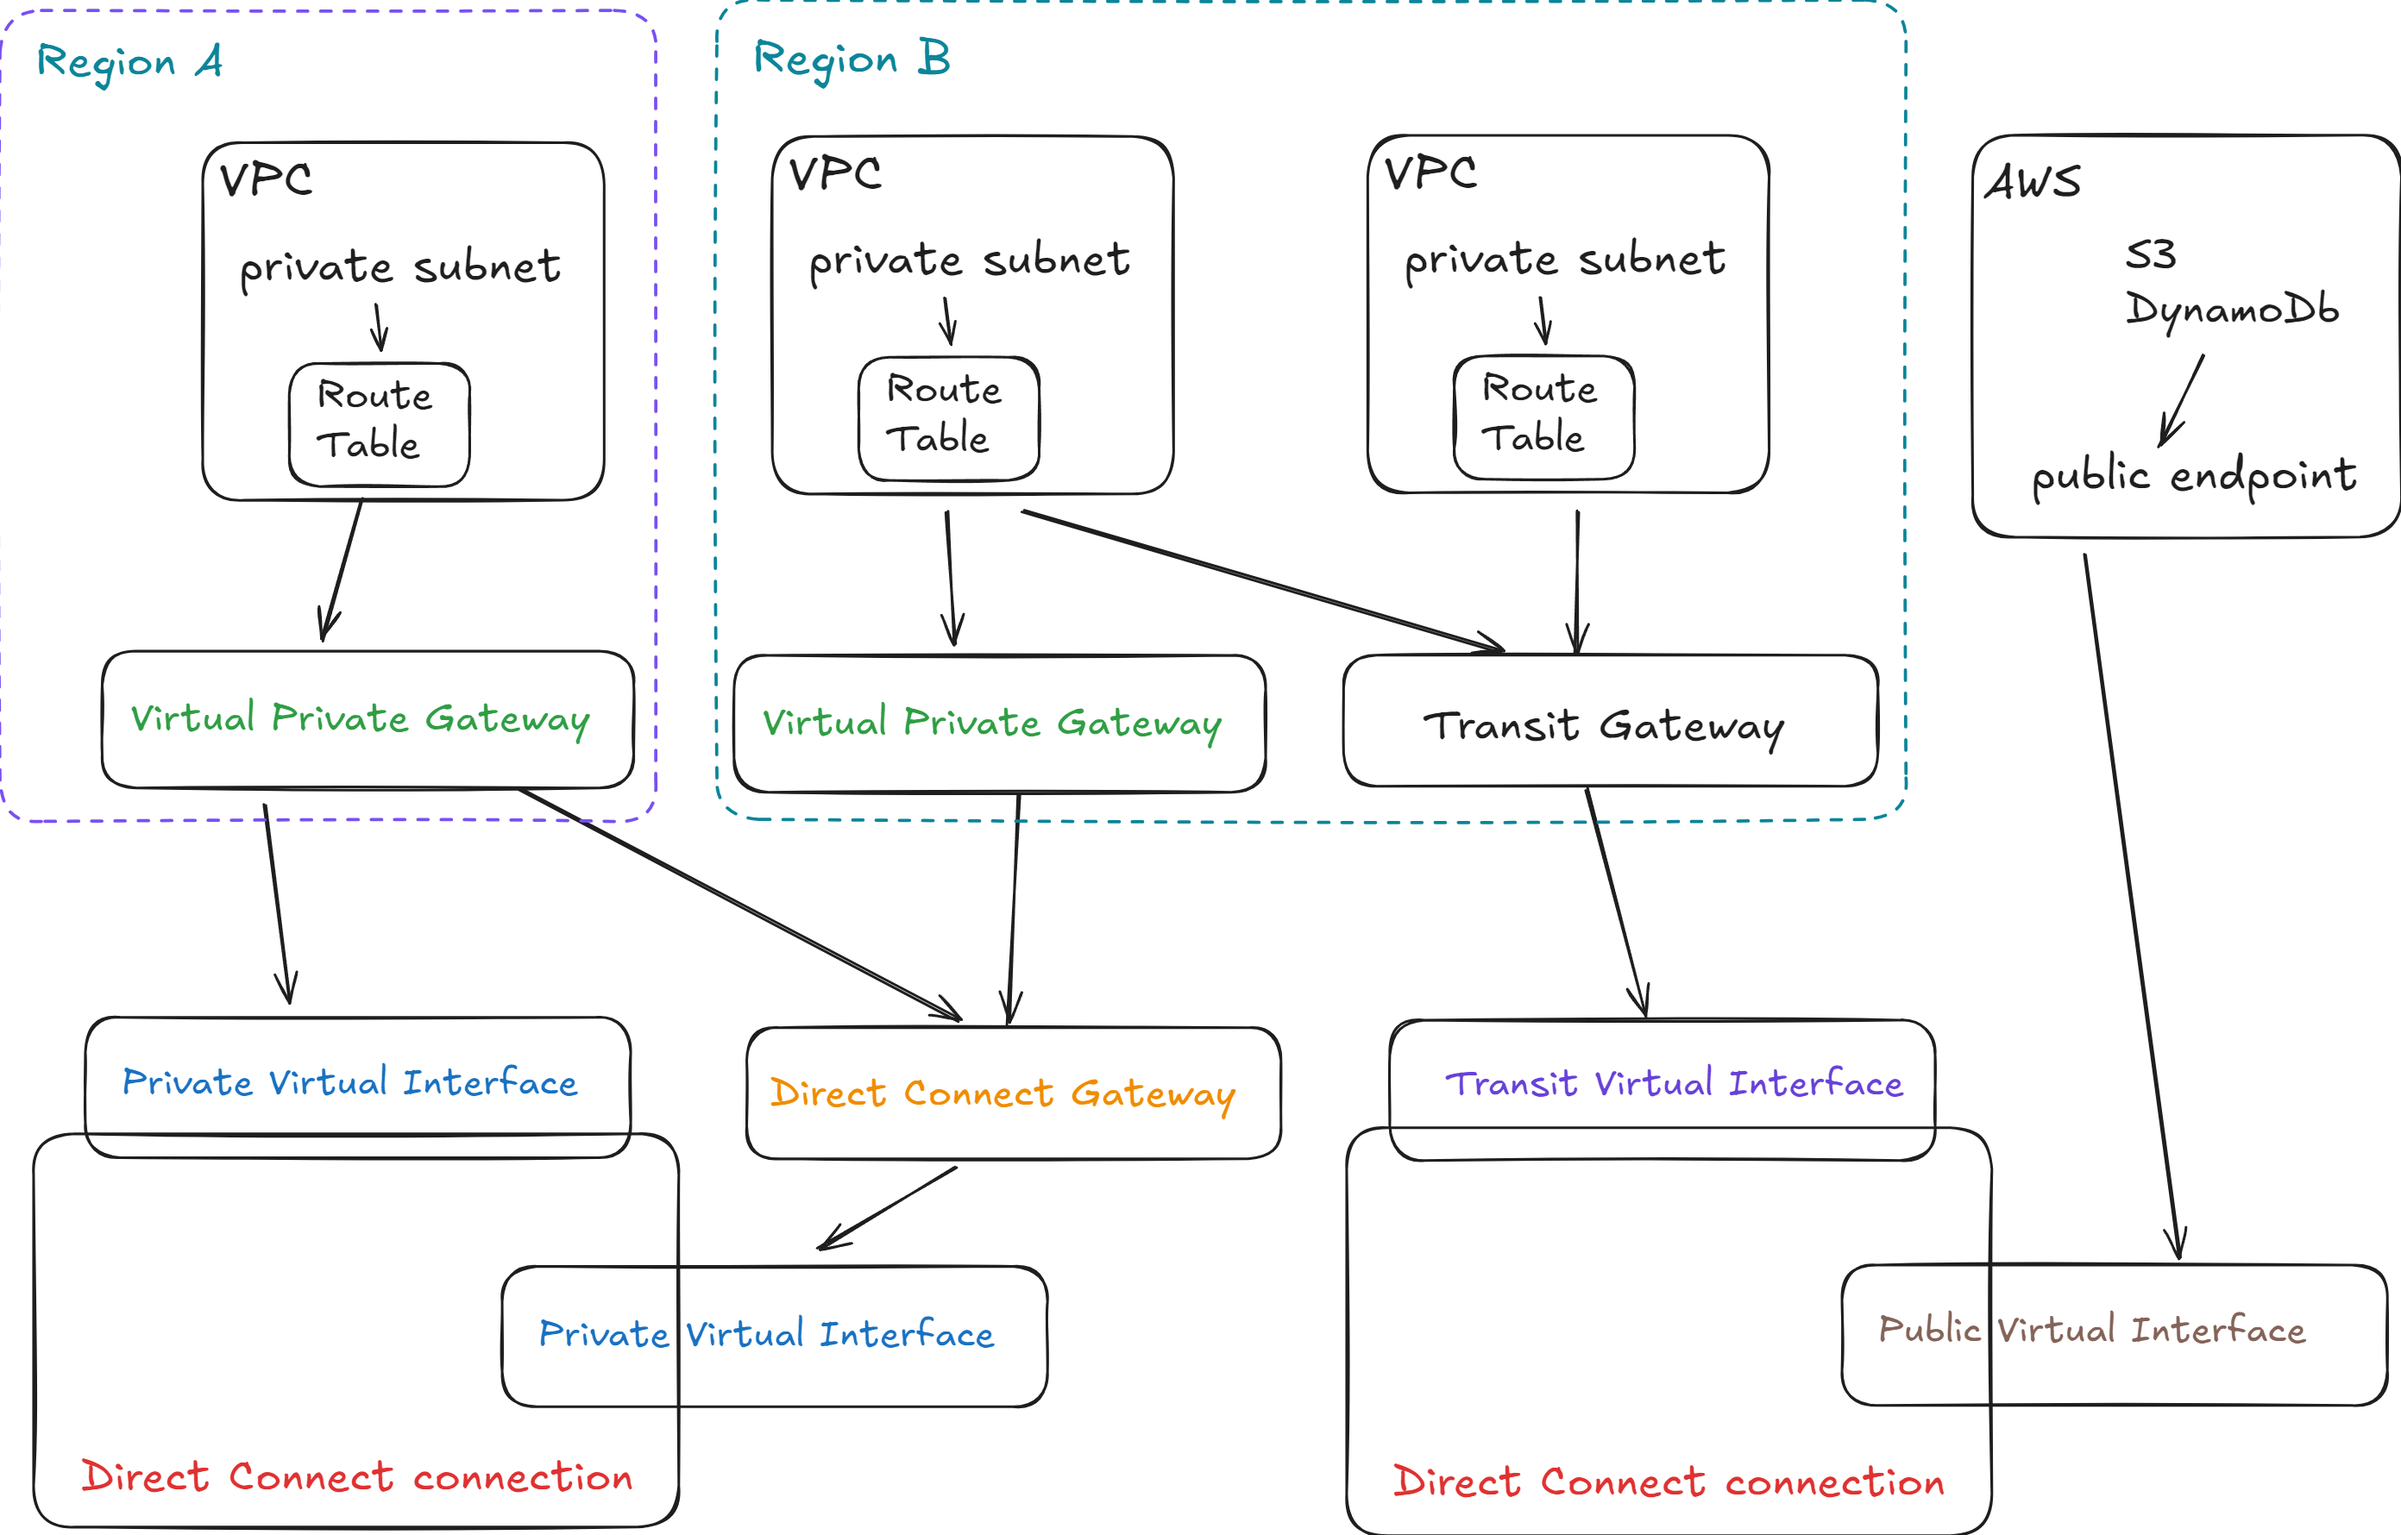
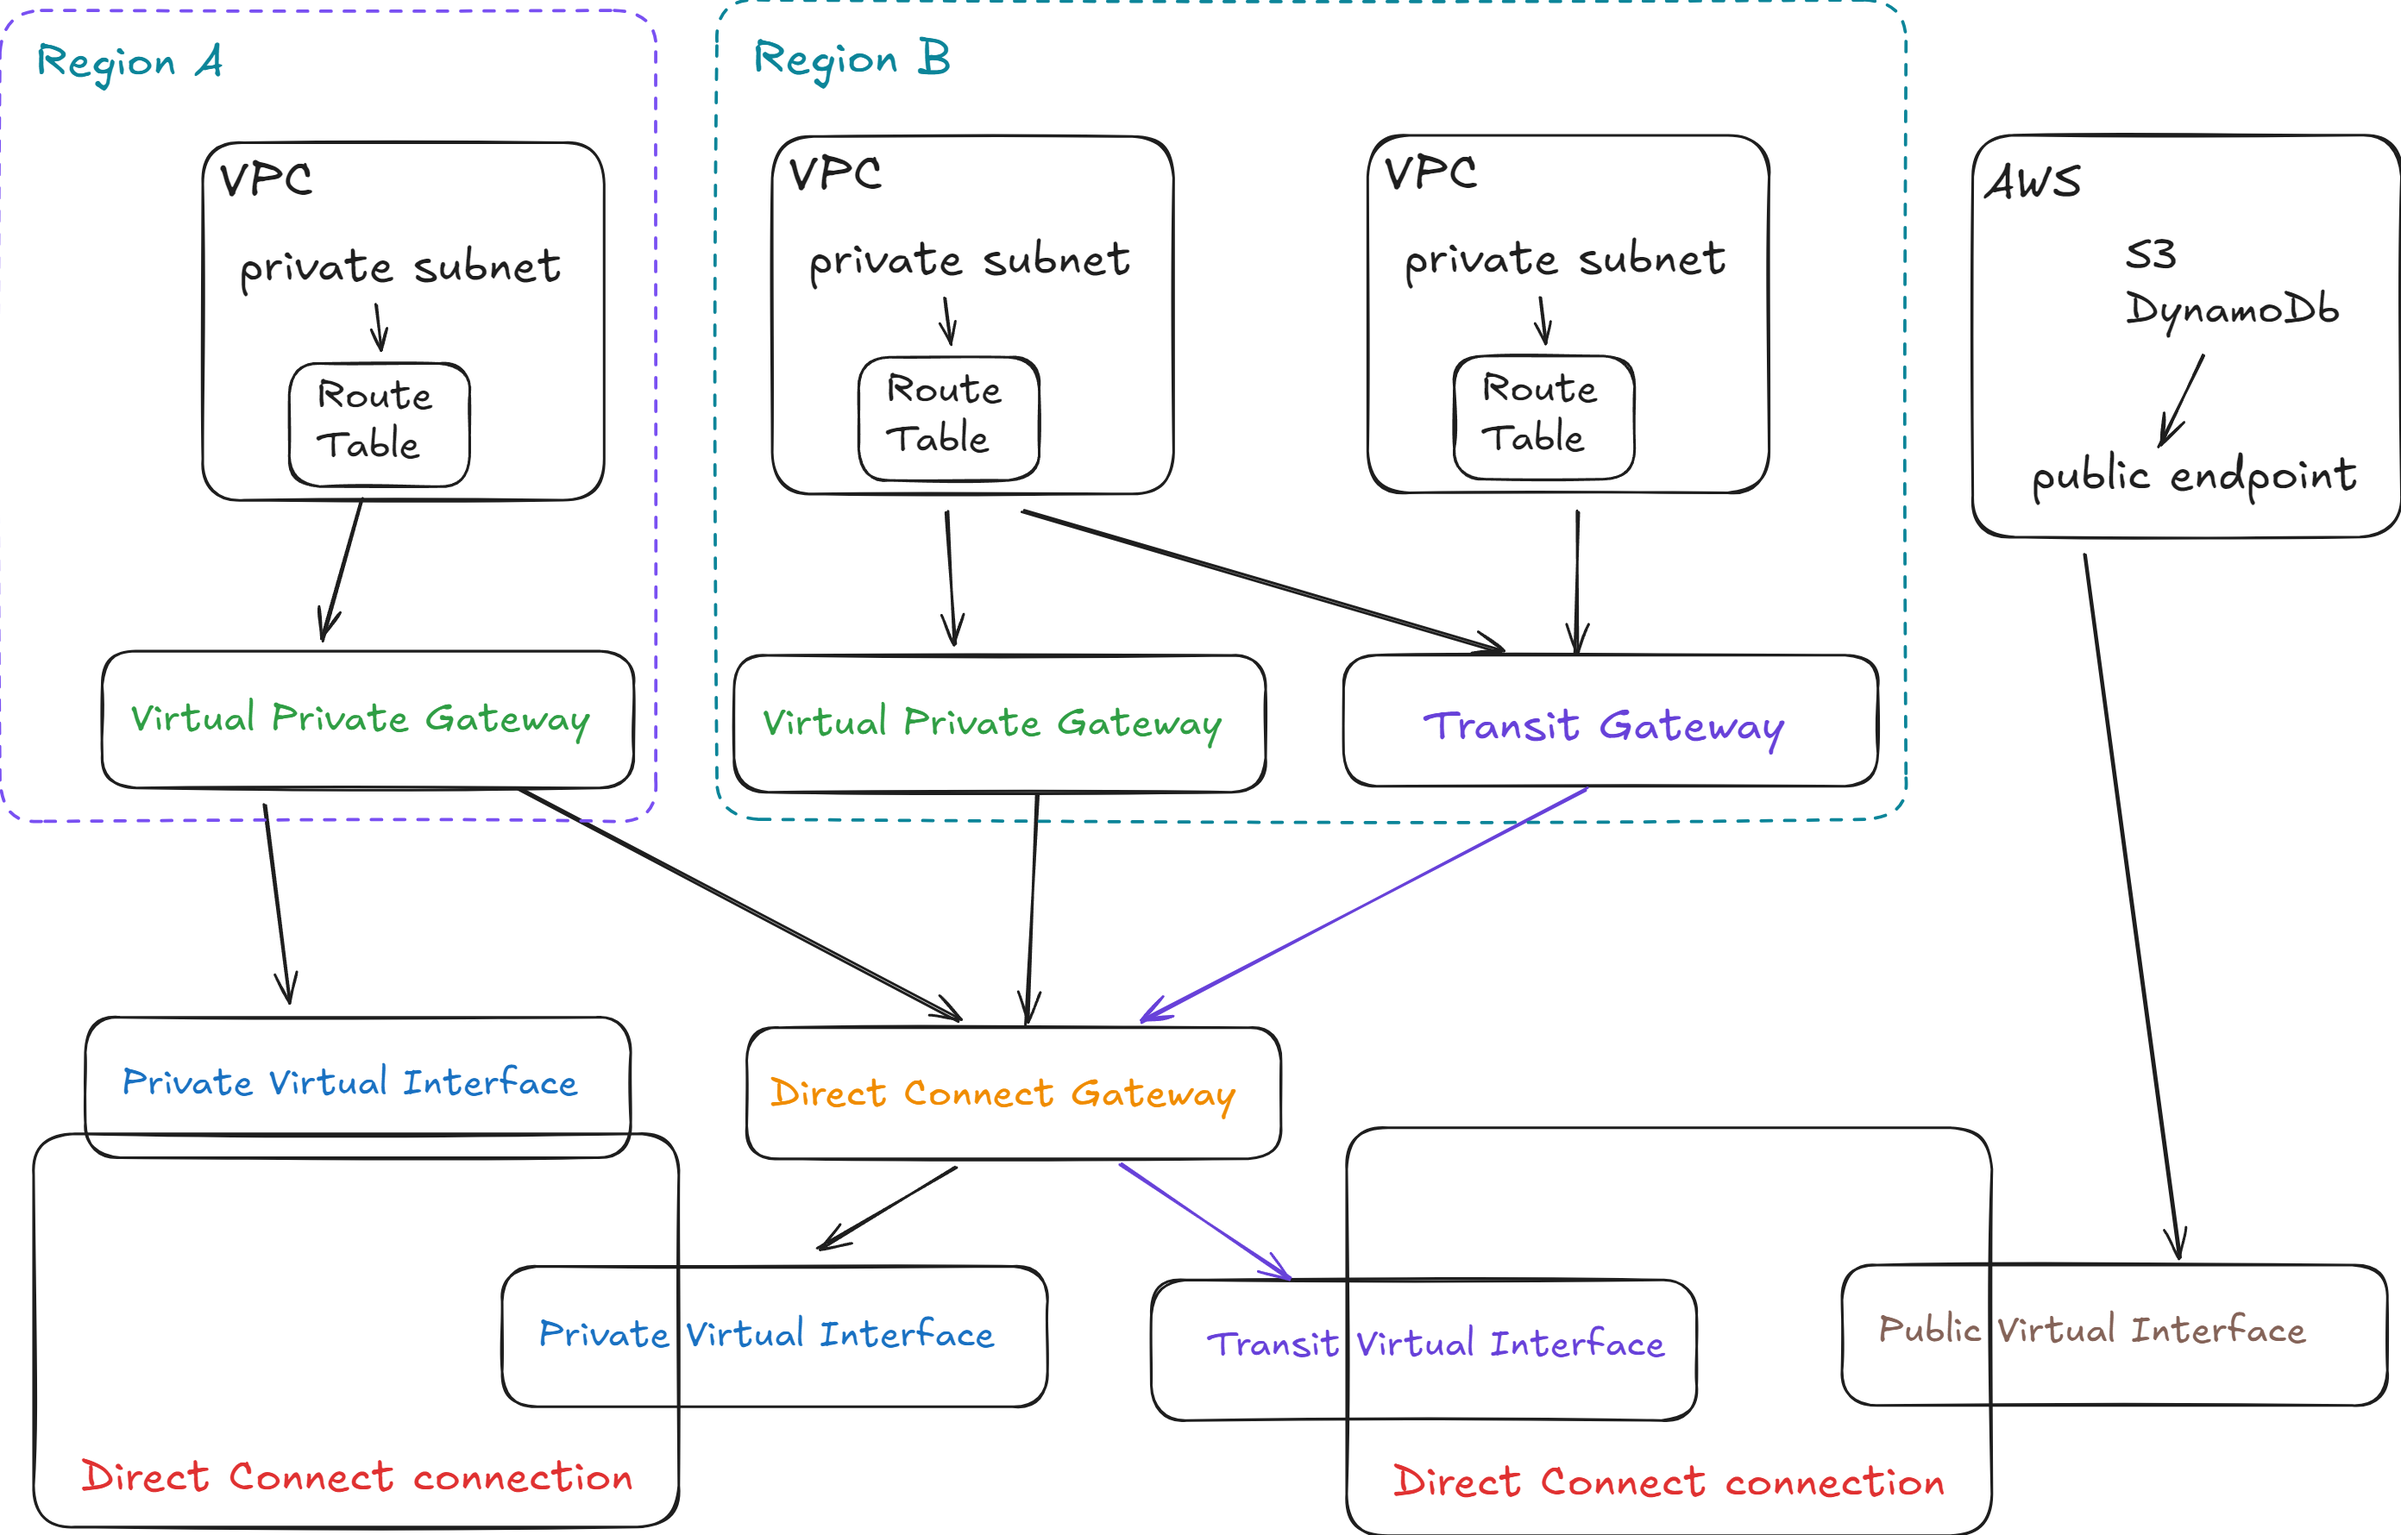
Published multiple files

diff --git a/src/site/notes/aws/Networking-Content-Delivery/VPC/Architectures/Hybrid Network Architecture between AWS and On-Premises.md b/src/site/notes/aws/Networking-Content-Delivery/VPC/Architectures/Hybrid Network Architecture between AWS and On-Premises.md
@@ -1,0 +1,26 @@
+---
+{"dg-publish":true,"permalink":"/aws/networking-content-delivery/vpc/architectures/hybrid-network-architecture-between-aws-and-on-premises/"}
+---
+
+**Use Case**: Build dedicated, private network connection between on-premises infrastructure and AWS, offering consistent low latency, higher bandwidth reliability, and enhanced security by bypassing the public internet.
+
+**Component**:
+[[aws/Networking-Content-Delivery/VPC/Atomic-Elements/direct-connect\|direct-connect]]  [[aws/Networking-Content-Delivery/VPC/Atomic-Elements/site-to-site-vpn\|site-to-site-vpn]]
+
+### Direct Connect as Primary + VPN as Backup (Active/Passive)
+**benefits**: high availability, cost-effective
+**key points**: use **BGP** to advertise routes, assign higher **BGP** priority to Direct Connect routes. 
+
+### Direct Connect + VPN for Encryption
+**benefits**: combine the speed of Direct Connect with VPN's encryption, meet strict compliance requirements.
+**key points**: encrypt data in transit over Direct Connect with IP Sec VPN.
+
+### Direct Connect + VPN via Transit Gateway (Scalable Multi-VPC)
+**benefits**: simply multi-account/multi-VPC architectures, reduce operational overhead.
+**key points**: transit gateway route table propagate routes between VPCs, Direct Connect and VPN. TGW Network Manager for centralized monitoring.
+
+### Multi-Region Direct Connect + VPN (Global Resilience)
+**benefits**: disaster recovery, geographic redundancy for mission-critical workloads.
+**key points**: deploy Direct Connect and VPN to multiples regions, configure **BGP** community tags to prioritize regional routes.
+
+![Hybrid Network Architecture between AWS and On-Premises.png](/img/user/aws/Networking-Content-Delivery/VPC/png/Hybrid%20Network%20Architecture%20between%20AWS%20and%20On-Premises.png)

diff --git a/src/site/notes/aws/Networking-Content-Delivery/VPC/Atomic-Elements/direct-connect.md b/src/site/notes/aws/Networking-Content-Delivery/VPC/Atomic-Elements/direct-connect.md
@@ -10,7 +10,7 @@ AWS Direct Connect links your internal network to an AWS over a standard Etherne
 >**Virtual Interface(VIF)**:
 >>Public VIF: connect to AWS public services (S3, DynamoDB, etc).\
 >>Private VIF: connect to your VPC using private IP address.\
->>Transit VIF: connect to AWS Transit Gateway.
+>>Transit VIF: connect to AWS Transit Gateway associated with **Direct Connect Gateway**.
 >
 >**Direct Connect Gateway**: connect to multiple VPCs of different regions through a single Direct Connect connection.
 
@@ -30,7 +30,6 @@ AWS Direct Connect links your internal network to an AWS over a standard Etherne
 >**On-Premises Router/Firewall**: handle traffic between AWS and On-Premises. must support **BGP** for dynamic routing with AWS.
 
 ![Direct Connect Summary.png](/img/user/aws/Networking-Content-Delivery/VPC/png/Atomic-Elements/Direct%20Connect%20Summary.png)
-
 
 
 ## Related Services/Resources

diff --git a/src/site/notes/aws/Networking-Content-Delivery/VPC/AWS VPC Ecosystem and Use Cases.md b/src/site/notes/aws/Networking-Content-Delivery/VPC/AWS VPC Ecosystem and Use Cases.md
@@ -23,7 +23,7 @@ The AWS Virtual Private Cloud (VPC) ecosystem enables the creation of well-isola
 
 [[aws/Networking-Content-Delivery/VPC/Architectures/Hybrid Database Access(no public internet usage)\|Hybrid Database Access(no public internet usage)]]
 
-[[aws/Networking-Content-Delivery/VPC/Architectures/Hybrid Network including AWS and On-Premises\|Hybrid Network including AWS and On-Premises]]
+[[aws/Networking-Content-Delivery/VPC/Architectures/Hybrid Network Architecture between AWS and On-Premises\|aws/Networking-Content-Delivery/VPC/Architectures/Hybrid Network Architecture between AWS and On-Premises]]
 <br>
 
 
